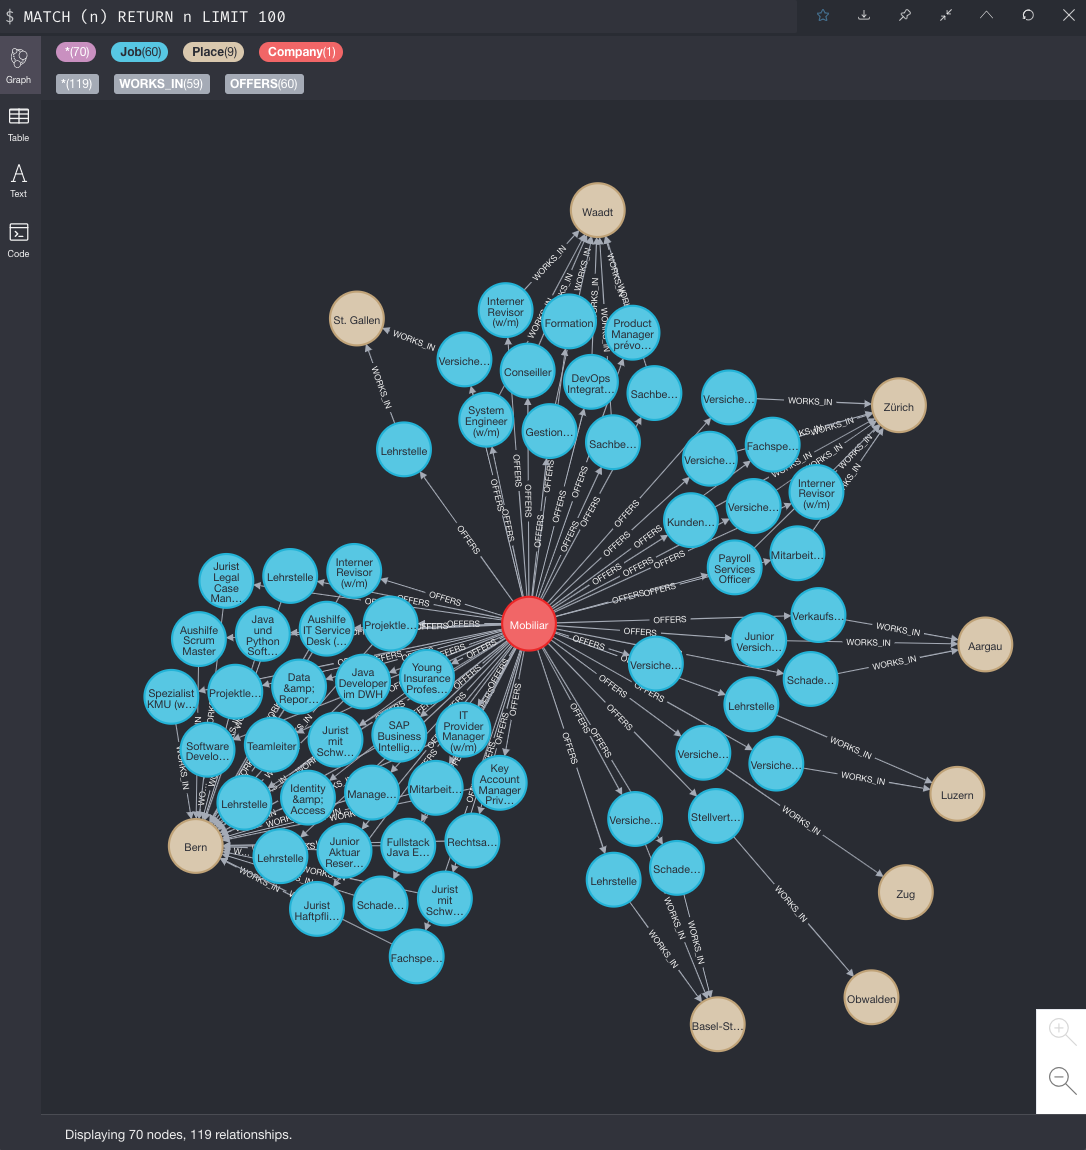
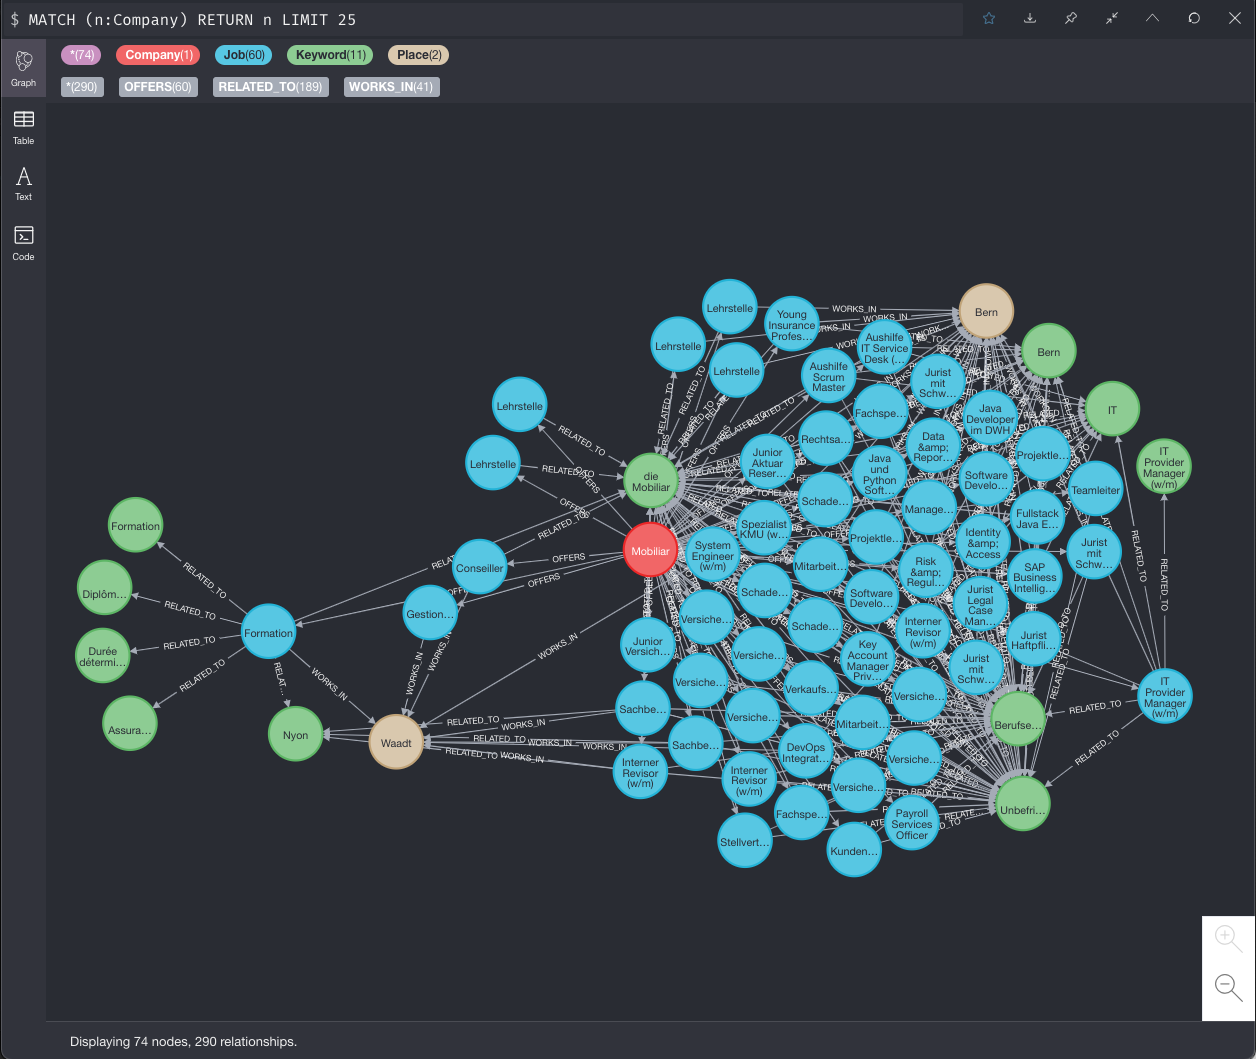
add keywords

diff --git a/src/main/java/ch/wyler/jobfinder/services/CrawlerService.java b/src/main/java/ch/wyler/jobfinder/services/CrawlerService.java
@@ -3,7 +3,11 @@ package ch.wyler.jobfinder.services;
 import static org.apache.commons.lang3.StringUtils.isNotBlank;
 import static org.apache.commons.lang3.StringUtils.substringAfter;
 import static org.apache.commons.lang3.StringUtils.substringBetween;
+import static org.apache.commons.lang3.math.NumberUtils.toInt;
 import static org.apache.commons.lang3.math.NumberUtils.toLong;
+
+import java.util.Arrays;
+import java.util.Optional;
 
 import org.jsoup.Jsoup;
 import org.jsoup.nodes.Document;
@@ -14,9 +18,11 @@ import org.springframework.web.reactive.function.client.WebClient;
 
 import ch.wyler.jobfinder.nodes.Company;
 import ch.wyler.jobfinder.nodes.Job;
+import ch.wyler.jobfinder.nodes.Keyword;
 import ch.wyler.jobfinder.nodes.Place;
 import ch.wyler.jobfinder.repositories.CompanyRepository;
 import ch.wyler.jobfinder.repositories.JobRepository;
+import ch.wyler.jobfinder.repositories.KeywordRepository;
 import ch.wyler.jobfinder.repositories.PlaceRepository;
 import lombok.extern.slf4j.Slf4j;
 
@@ -24,18 +30,24 @@ import lombok.extern.slf4j.Slf4j;
 @Service
 public class CrawlerService {
 
-    private static final int MAX_PAGES = 7;
+    private static final int DEFAULT_PAGE_COUNT = 2;
     private static final String BASE_URL = "https://jobs.mobiliar.ch";
+    private static final int JOBS_PER_PAGE = 10;
 
     private final JobRepository jobRepository;
     private final CompanyRepository companyRepository;
     private final PlaceRepository placeRepository;
+    private final KeywordRepository keywordRepository;
+    private final WebClient client = WebClient.builder()
+            .baseUrl(BASE_URL)
+            .build();
 
     public CrawlerService(final JobRepository jobRepository, final CompanyRepository companyRepository,
-            final PlaceRepository placeRepository) {
+            final PlaceRepository placeRepository, final KeywordRepository keywordRepository) {
         this.jobRepository = jobRepository;
         this.companyRepository = companyRepository;
         this.placeRepository = placeRepository;
+        this.keywordRepository = keywordRepository;
         reset();
         crawl();
     }
@@ -43,41 +55,85 @@ public class CrawlerService {
     public void crawl() {
         final Company company = companyRepository.save(new Company("Mobiliar"));
 
-        final WebClient client = WebClient.builder()
-                .baseUrl(BASE_URL)
-                .build();
-        for (int i = 1; i < MAX_PAGES; i++) {
-            final String result = client.post().uri("/Jobs/All?tc1152481=p" + i).retrieve().bodyToMono(String.class).block();
-            final Document document;
-
-            document = Jsoup.parse(result);
-
+        for (int i = 1; i < getPageCount(); i++) {
+            log.info("Crawl page number: {}", i);
+            final String result = client.post().uri("/Jobs/All?tc1152481=p" + i)
+                    .retrieve()
+                    .bodyToMono(String.class)
+                    .block();
+            final Document document = Jsoup.parse(result);
             final Elements elements = document.select("div.tableaslist_cell");
-            for (final Element element : elements) {
-                final Element elementSubTitle = element.getElementsByClass("HSTableLinkSubTitle").get(0);
-                final Element elementPlace = element.getElementsByClass("tableaslist_subtitle").get(3);
-                final String jobTitle = elementSubTitle.childNodes().get(0).toString();
-                final String descriptionLink = elementSubTitle.attributes().get("href");
-                final long id = toLong(substringBetween(descriptionLink, "/Vacancies/", "/Description/"));
 
-                final Job job = jobRepository.save(new Job(id, jobTitle));
-                company.addJob(job);
-
-                final String placeText = elementPlace.ownText();
-                final String place = substringAfter(placeText, "| Kanton: ");
-                if(isNotBlank(place)){
-                    Place resultPlace = placeRepository.findByName(place);
-                    if (resultPlace == null) {
-                        resultPlace = placeRepository.save(new Place(place));
-                    }
-                    job.addPlace(resultPlace);
-                    jobRepository.save(job);
-                }
-            }
-
+            elements.forEach(element -> addJobData(company, element));
             waitBeforeNextRequest();
         }
         companyRepository.save(company);
+    }
+
+    private void addJobData(final Company company, final Element element) {
+        final Element elementSubTitle = element.getElementsByClass("HSTableLinkSubTitle").get(0);
+        final Element elementPlace = element.getElementsByClass("tableaslist_subtitle").get(3);
+        final String jobTitle = elementSubTitle.childNodes().get(0).toString();
+        final String descriptionLink = elementSubTitle.attributes().get("href");
+        final long id = toLong(substringBetween(descriptionLink, "/Vacancies/", "/Description/"));
+
+        final Job job = jobRepository.save(new Job(id, jobTitle));
+        company.addJob(job);
+
+        final String placeText = elementPlace.ownText();
+        final String place = substringAfter(placeText, "| Kanton: ");
+        if (isNotBlank(place)) {
+            Place resultPlace = placeRepository.findByName(place);
+            if (resultPlace == null) {
+                resultPlace = placeRepository.save(new Place(place));
+            }
+            job.addPlace(resultPlace);
+            jobRepository.save(job);
+        }
+
+        addDetailedJobData(descriptionLink, job);
+    }
+
+    private void addDetailedJobData(final String descriptionLink, final Job job) {
+        final String resultDescription = client.post()
+                .uri(descriptionLink)
+                .retrieve()
+                .bodyToMono(String.class)
+                .block();
+        final Document documentDetailDescription = Jsoup.parse(resultDescription);
+        final Optional<Element> keywordsElement = documentDetailDescription.select("meta")
+                .stream()
+                .filter(e -> e.attributes().get("name").contains("keywords"))
+                .findFirst();
+
+        if(keywordsElement.isPresent()) {
+            final String[] keywords = keywordsElement.get()
+                    .attributes()
+                    .get("content")
+                    .split(",");
+
+            Arrays.stream(keywords).forEach(name -> {
+                Keyword keyword = keywordRepository.findByName(name);
+                if (keyword == null) {
+                    keyword = keywordRepository.save(new Keyword(name));
+                }
+
+                job.addKeyword(keyword);
+            });
+        }
+        jobRepository.save(job);
+
+        waitBeforeNextRequest();
+    }
+
+    private int getPageCount() {
+        final String result = client.get()
+                .uri("/Jobs/All/getTableTotalCount?token_list_id=910579")
+                .retrieve()
+                .bodyToMono(String.class)
+                .block();
+        final int amountOfJobs= toInt(substringBetween(result, "{\"data\":\"", "\"}"), DEFAULT_PAGE_COUNT);
+        return (int) Math.ceil(amountOfJobs / JOBS_PER_PAGE) + 1;
     }
 
     private void reset() {

diff --git a/src/main/java/ch/wyler/jobfinder/nodes/Job.java b/src/main/java/ch/wyler/jobfinder/nodes/Job.java
@@ -26,6 +26,9 @@ public class Job {
     @Relationship(type = "WORKS_IN")
     public Set<Place> places;
 
+    @Relationship(type = "RELATED_TO")
+    public Set<Keyword> keywords;
+
     public Job(final String name) {
         this.name = name;
     }
@@ -40,5 +43,12 @@ public class Job {
             places = new HashSet<>();
         }
         places.add(place);
+    }
+
+    public void addKeyword(final Keyword keyword) {
+        if (keywords == null) {
+            keywords = new HashSet<>();
+        }
+        keywords.add(keyword);
     }
 }

diff --git a/src/main/java/ch/wyler/jobfinder/nodes/Keyword.java b/src/main/java/ch/wyler/jobfinder/nodes/Keyword.java
@@ -1,0 +1,27 @@
+package ch.wyler.jobfinder.nodes;
+
+import org.springframework.data.neo4j.core.schema.GeneratedValue;
+import org.springframework.data.neo4j.core.schema.Id;
+import org.springframework.data.neo4j.core.schema.Node;
+
+import lombok.Getter;
+import lombok.NoArgsConstructor;
+import lombok.Setter;
+
+@NoArgsConstructor
+@Getter
+@Setter
+@Node
+public class Keyword {
+
+    @Id
+    @GeneratedValue
+    private Long id;
+
+    private String name;
+
+    public Keyword(final String name) {
+        this.name = name;
+    }
+
+}

diff --git a/src/main/java/ch/wyler/jobfinder/repositories/KeywordRepository.java b/src/main/java/ch/wyler/jobfinder/repositories/KeywordRepository.java
@@ -1,0 +1,10 @@
+package ch.wyler.jobfinder.repositories;
+
+import org.springframework.data.neo4j.repository.Neo4jRepository;
+
+import ch.wyler.jobfinder.nodes.Keyword;
+
+public interface KeywordRepository extends Neo4jRepository<Keyword, Long> {
+
+    Keyword findByName(String name);
+}

diff --git a/src/test/java/ch/wyler/jobfinder/JobfinderApplicationTests.java b/src/test/java/ch/wyler/jobfinder/JobfinderApplicationTests.java
@@ -1,12 +1,11 @@
 package ch.wyler.jobfinder;
 
-import org.junit.jupiter.api.Test;
 import org.springframework.boot.test.context.SpringBootTest;
 
 @SpringBootTest
 class JobfinderApplicationTests {
 
-//    @Test
+    //@Test
     void contextLoads() {
     }
 

diff --git a/src/main/java/ch/wyler/jobfinder/repositories/JobRepository.java b/src/main/java/ch/wyler/jobfinder/repositories/JobRepository.java
@@ -7,4 +7,5 @@ import ch.wyler.jobfinder.nodes.Job;
 public interface JobRepository extends Neo4jRepository<Job, Long> {
 
     Job findByName(String name);
+
 }
